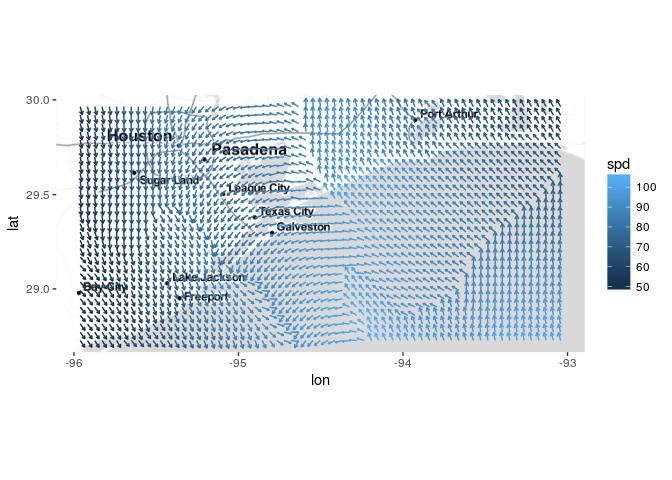
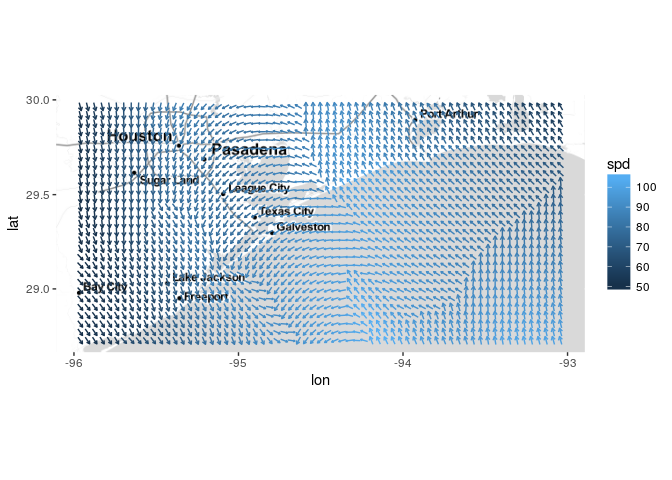
Updated README to reflect new centering feature

Changed region(s): [[0.0938, 0.1875, 0.8438, 0.75]]

diff --git a/README.md b/README.md
@@ -9,7 +9,7 @@ Quiver plots for ggplot2.
 Installation
 ------------
 
-The development version of ggquiver can be installed from Github using:
+The **development** version of *ggquiver* can be installed from Github using:
 
 ``` r
 # install.packages("devtools")
@@ -19,7 +19,7 @@ devtools::install_github("mitchelloharawild/ggquiver")
 Usage
 -----
 
-**ggquiver** introduces a new geom `geom_quiver()`, which produces a quiver plot in *ggplot2*.
+*ggquiver* introduces a new geom `geom_quiver()`, which produces a quiver plot in *ggplot2*.
 
 ``` r
 expand.grid(x=seq(0,pi,pi/12), y=seq(0,pi,pi/12)) %>%
@@ -33,10 +33,11 @@ expand.grid(x=seq(0,pi,pi/12), y=seq(0,pi,pi/12)) %>%
 
 ``` r
 library(ggmap)
+library(dplyr)
 
 wind_data <- wind %>% filter(between(lon, -96, -93) & between(lat, 28.7, 30))
 qmplot(lon, lat, data=wind_data, extent="panel", geom = "blank", zoom=8, maptype = "toner-lite") + 
-  geom_quiver(aes(u=delta_lon, v=delta_lat, colour = spd))
+  geom_quiver(aes(u=delta_lon, v=delta_lat, colour = spd), center=TRUE)
 ```
 
 ![](man/figure/windplot-1.png)
